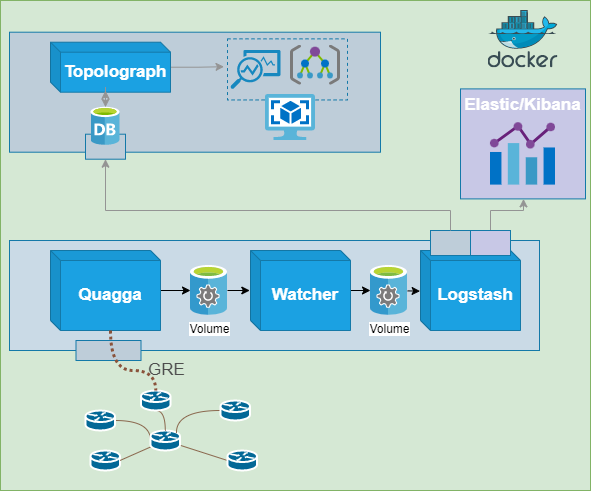
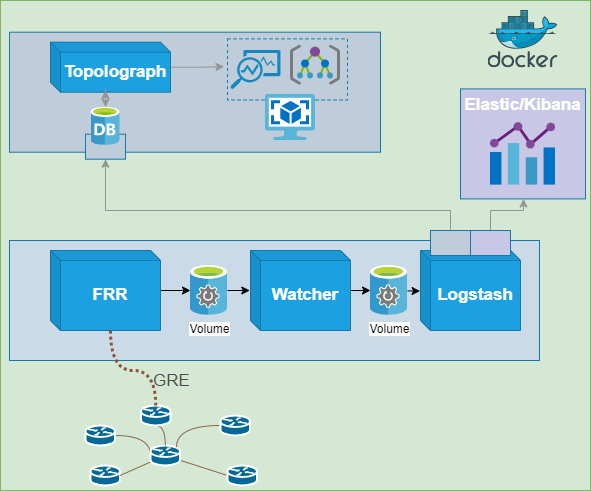
OSPF architecture

diff --git a/README.md b/README.md
@@ -6,13 +6,13 @@ OSPF Watcher is a monitoring tool of OSPF topology changes for network engineers
 * OSPF networks appeared/disappeared from the topology
 
 ## Architecture
-![](https://github.com/Vadims06/ospfwatcher/blob/23536a5f7d296cbced4dce95c8bdee43dd93821f/docs/ospfwatcher_plus_topolograph_architecture.png)  
-The Quagga container has `network_mode=host` so it sees the GRE tunnel, which is configured by Admin on the Linux Host.  
-Integration with **Zabbix** was added in *ospfwatcher:v1.4* for allerting/notification of OSPF topology changes.   
+![](docs/ospfwatcher_plus_topolograph_architecture.png)  
+Each Watcher instance maintains all routes and updates within an isolated network namespace. This isolation ensures efficient monitoring without interference and prevent route leaks.
+
 > **Note**  
 > ospfwatcher:v1.1 is compatible with [topolograph:v2.7](https://github.com/Vadims06/topolograph/releases/tag/v2.27), it means that OSPF network changes can be shown on the network graph.
 ### Functional Role
-![](https://github.com/Vadims06/ospfwatcher/blob/247bb4d330de762cfc4c3fd67135e5740ba8403c/docs/functional-watcher-role.png)
+![](docs/functional-watcher-role.png)
 ## Demo
 Click on the image in order zoom it.  
 ![](https://github.com/Vadims06/ospfwatcher/blob/ada2ca86df171ec5f1b550da821f0a8ca1cb1df4/docs/ospf-watcher-demo.gif)
@@ -166,8 +166,8 @@ docker-compose up -d
 sudo docker run -it --rm -v ./:/home/watcher/watcher/ --cap-add=NET_ADMIN -u root --network host vadims06/ospf-watcher:v1.7 python3 ./client.py --action diagnostic --watcher_num <num>
 ```   
 #### OSPF Watcher <-> Dashboard page
-This is a quick set of checks in case of absence of events on OSPF Monitoring page. OSPF Watcher consists of three services: OSPFd/Quagga [1] -> Watcher [2] -> Logstash [3] -> Topolograph & ELK & Zabbix & WebHooks.
-1. Check if Quagga tracks OSPF changes, run the following command:  
+This is a quick set of checks in case of absence of events on OSPF Monitoring page. OSPF Watcher consists of three services: OSPFd/FRR [1] -> Watcher [2] -> Logstash [3] -> Topolograph & ELK & Zabbix & WebHooks.
+1. Check if FRR tracks OSPF changes, run the following command:  
 ```
 docker exec -it quagga cat /var/log/quagga/ospfd.log
 ```   
